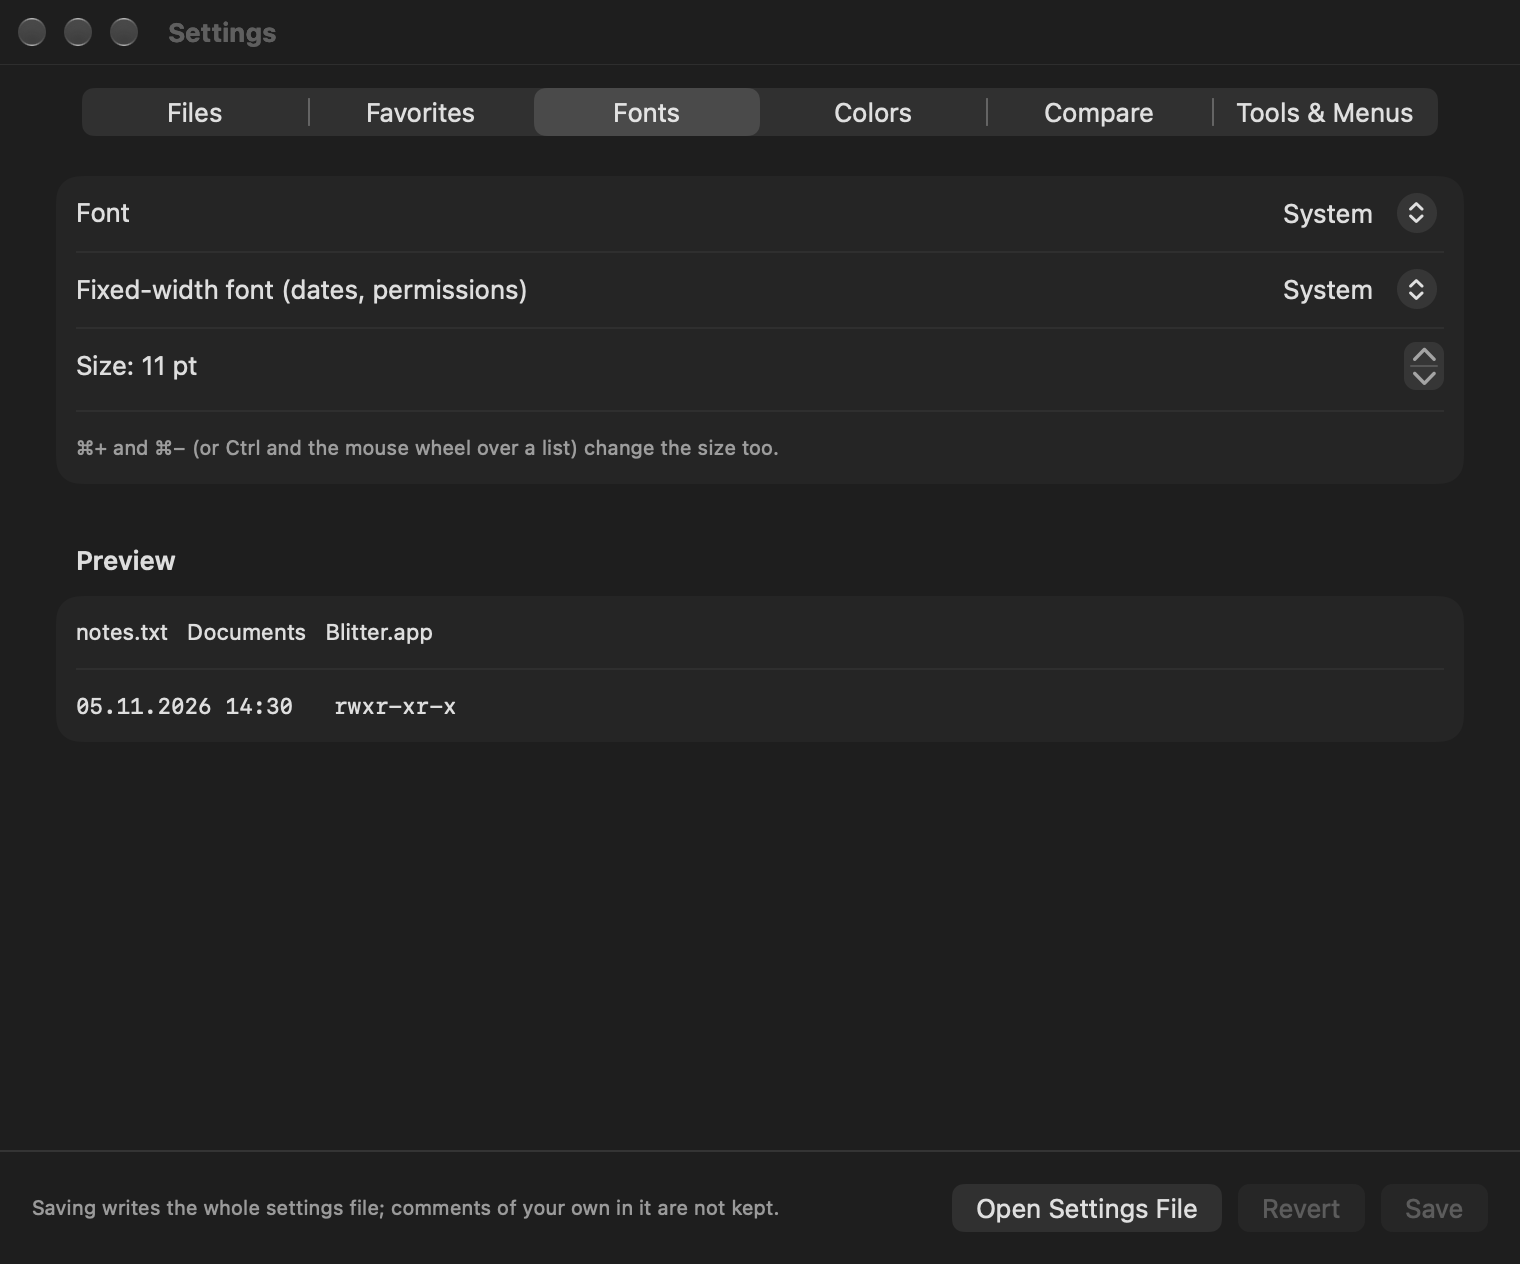
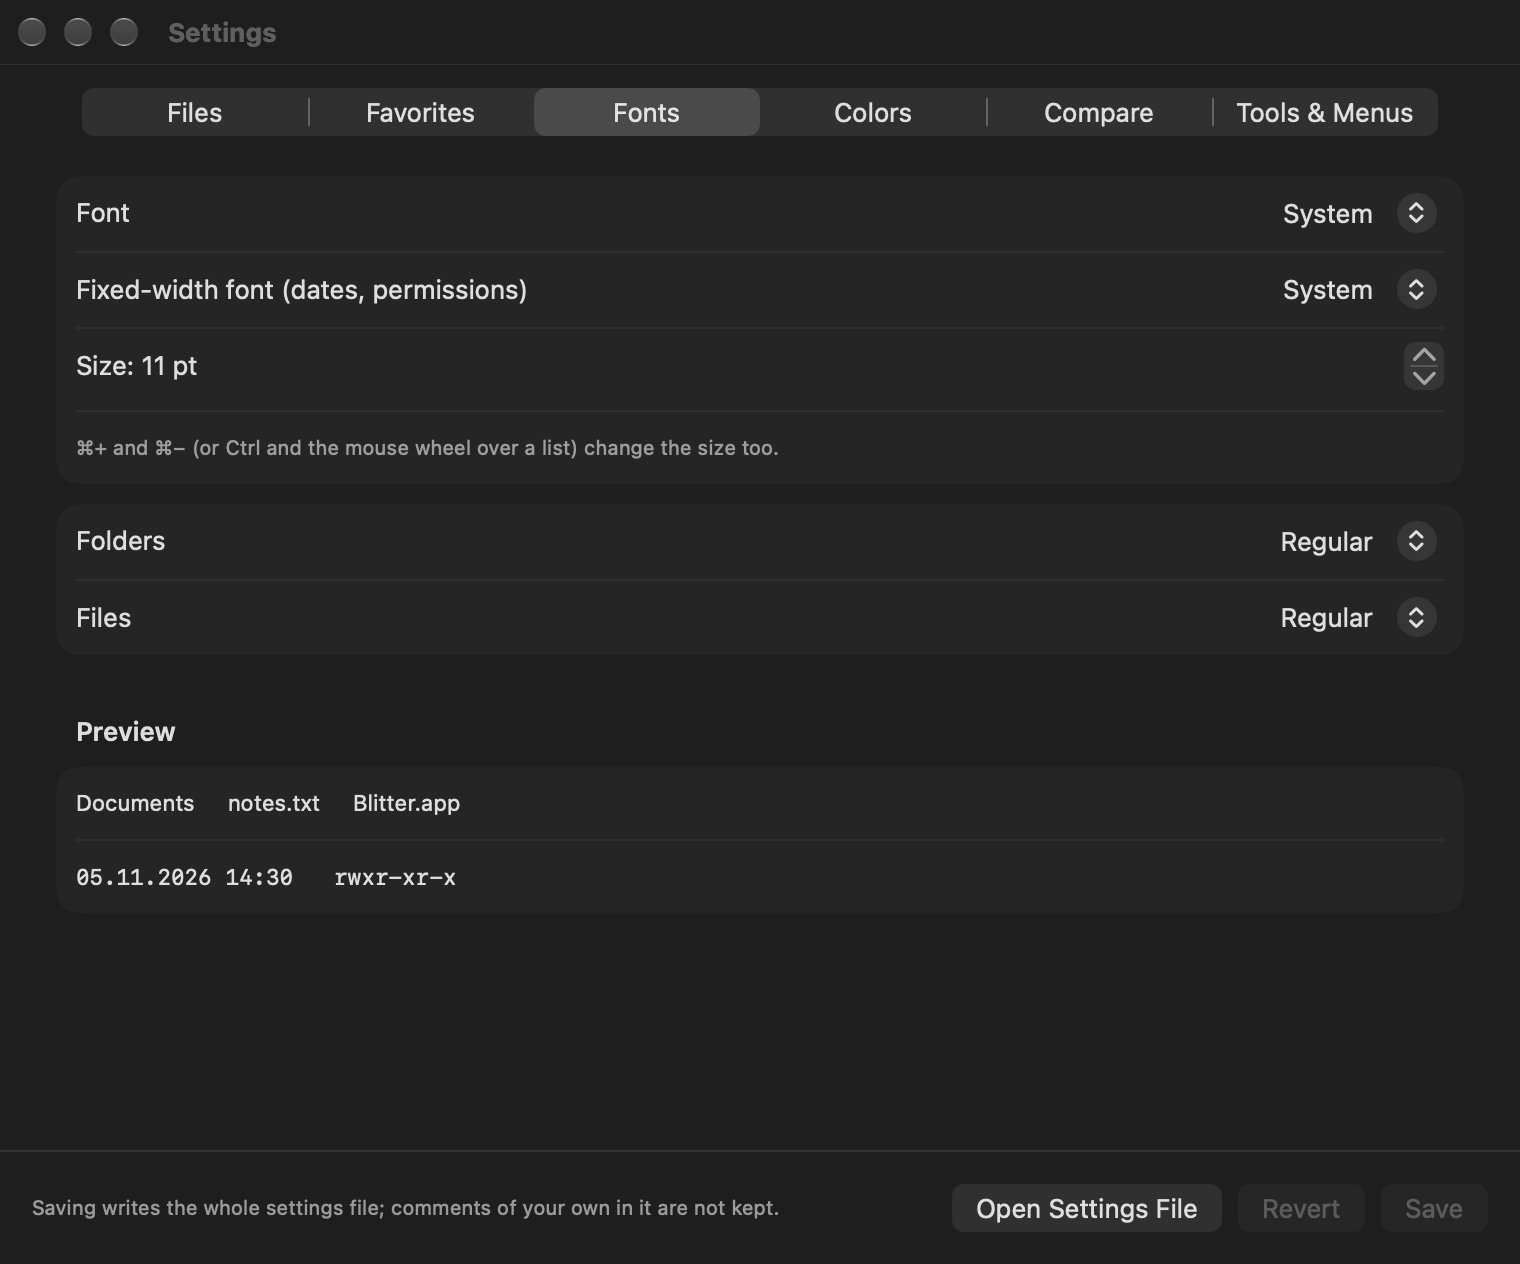
Font styles for folder and file names
[font] folder_style and file_style, each "regular", "bold", "italic" or
"bold italic", with Folders and Files pickers on the Fonts tab. The
folder style is used for folders in the file list and the folder tree;
packages count as files. A fast-filter match toggles bold, so it still
stands out in a bold style. Fonts are built once per settings change;
the per-row lookup is an index into them.

Fixes #77

diff --git a/Tests/BlitterAppTests/ListFontsTests.swift b/Tests/BlitterAppTests/ListFontsTests.swift
@@ -14,7 +14,7 @@ final class ListFontsTests {
     private let window: NSWindow
 
     init() async throws {
-        let entries = [file("notes.txt"), folder("docs")]
+        let entries = [file("notes.txt"), folder("docs"), folder("Tool.app")]
         workspace = Workspace(initialLocation: "/home", home: "/home", lister: { _ in entries },
                               directoryCheck: { _ in false }, volumes: { [] }, watcher: FakeWatcher.factory)
         workspace.settings.columns = [.name, .size, .modified, .permissions]
@@ -32,7 +32,7 @@ final class ListFontsTests {
             tree.render()
         }
         window.makeKeyAndOrderFront(nil)
-        for _ in 0 ..< 200 where workspace.state(of: .left).visibleEntries.count < 2 {
+        for _ in 0 ..< 200 where workspace.state(of: .left).visibleEntries.count < 3 {
             try await Task.sleep(for: .milliseconds(10))
         }
         workspace.onChange?()
@@ -98,6 +98,47 @@ final class ListFontsTests {
         let bold = try font("name", of: "notes.txt")
         #expect(bold.familyName == "Helvetica" && bold.fontDescriptor.symbolicTraits.contains(.bold))
         #expect(try !font("name", of: "docs").fontDescriptor.symbolicTraits.contains(.bold))
+    }
+
+    /// #77: folders, in the list and the tree, and files each in their style; an app is a file.
+    @Test func foldersAndFilesHaveTheirStyles() throws {
+        workspace.settings.font = FontSettings(face: "Helvetica", size: 12, folderStyle: .bold, fileStyle: .italic)
+        workspace.onChange?()
+        let folder = try font("name", of: "docs").fontDescriptor.symbolicTraits
+        #expect(folder.contains(.bold) && !folder.contains(.italic))
+        for name in ["notes.txt", "Tool.app"] {
+            let file = try font("name", of: name)
+            #expect(file.familyName == "Helvetica" && file.fontDescriptor.symbolicTraits.contains(.italic), "\(name)")
+            #expect(!file.fontDescriptor.symbolicTraits.contains(.bold), "\(name)")
+        }
+        #expect(try !font("size", of: "docs").fontDescriptor.symbolicTraits.contains(.bold))
+        let treeFonts = try (0 ..< tree.outlineView.numberOfRows).compactMap { row -> NSFont? in
+            guard tree.outlineView.parent(forItem: tree.outlineView.item(atRow: row)) != nil else {
+                return nil // a section header
+            }
+            return try #require((tree.outlineView.view(atColumn: 0, row: row, makeIfNecessary: true)
+                    as? NSTableCellView)?.textField?.font)
+        }
+        #expect(!treeFonts.isEmpty && treeFonts.allSatisfy { $0.fontDescriptor.symbolicTraits.contains(.bold) })
+    }
+
+    /// #77: a match in a bold style stands out by not being bold.
+    @Test func aFastFilterMatchInABoldStyleIsNotBold() async throws {
+        workspace.settings.font = FontSettings(folderStyle: .bold)
+        workspace.perform(.setQuickFilter(.left, QuickFilter("docs", mode: .highlight)))
+        try await waitUntil { self.workspace.state(of: .left).highlighted == ["docs"] }
+        workspace.onChange?()
+        #expect(try !font("name", of: "docs").fontDescriptor.symbolicTraits.contains(.bold))
+        // Italic stays italic either way; only bold is toggled.
+        let fonts = ListFonts.current(FontSettings(face: "Helvetica"))
+        #expect(fonts.name(.italic, emphasized: true).fontDescriptor.symbolicTraits.isSuperset(of: [.bold, .italic]))
+        let boldItalic = fonts.name(.boldItalic, emphasized: true).fontDescriptor.symbolicTraits
+        #expect(boldItalic.contains(.italic) && !boldItalic.contains(.bold))
+        // Each style's font is the one its index finds.
+        for style in FontStyle.allCases {
+            let traits = fonts.name(style).fontDescriptor.symbolicTraits
+            #expect(traits.contains(.bold) == style.isBold && traits.contains(.italic) == style.isItalic, "\(style)")
+        }
     }
 
     /// #63: Ctrl+wheel over the list or the tree zooms; without Ctrl the wheel scrolls.

diff --git a/Sources/BlitterApp/ListFonts.swift b/Sources/BlitterApp/ListFonts.swift
@@ -6,10 +6,10 @@ import BlitterModel
 @MainActor
 struct ListFonts {
     let settings: FontSettings
-    /// Names, folders, and the columns without their own font.
+    /// The columns without their own font; names are drawn in `name(_:emphasized:)`.
     let text: NSFont
-    /// A fast-filter match (#39).
-    let bold: NSFont
+    /// The text font in each style, in `FontStyle.allCases` order (#77).
+    private let styled: [NSFont]
     /// The tree's section headers.
     let section: NSFont
     /// Sizes: the text font with digits of equal width, so they line up from row to row.
@@ -37,19 +37,41 @@ struct ListFonts {
         let manager = NSFontManager.shared
         if let face = settings.face, let font = manager.font(withFamily: face, traits: [], weight: 5, size: size) {
             text = font
-            bold = manager.convert(font, toHaveTrait: .boldFontMask)
-            section = bold
+            section = Self.font(font, in: .bold)
             tabular = Self.withTabularDigits(font)
         } else {
             text = .systemFont(ofSize: size)
-            bold = .boldSystemFont(ofSize: size)
             section = .systemFont(ofSize: size, weight: .semibold)
             tabular = .monospacedDigitSystemFont(ofSize: size, weight: .regular)
         }
         mono = settings.mono.flatMap { manager.font(withFamily: $0, traits: [], weight: 5, size: size) }
             ?? .monospacedSystemFont(ofSize: size, weight: .regular)
-        let lineHeight = max(Self.lineHeight(text), Self.lineHeight(mono))
+        let styled = FontStyle.allCases.map { [text] style in Self.font(text, in: style) }
+        self.styled = styled
+        let names = [settings.folderStyle, settings.fileStyle].map { styled[$0.index] }
+        let lineHeight = ([text, mono] + names).map(Self.lineHeight).max() ?? 0
         rowHeight = max(lineHeight + Self.rowPadding, Self.iconSize)
+    }
+
+    /// A folder's or file's name in its style. A fast-filter match (#39) is emphasized: bold, or,
+    /// where the style is bold already, not bold — so it stands out from its neighbors either way.
+    func name(_ style: FontStyle, emphasized: Bool = false) -> NSFont {
+        styled[(emphasized ? FontStyle(bold: !style.isBold, italic: style.isItalic) : style).index]
+    }
+
+    /// The face in a style; a face without that style keeps its regular.
+    private static func font(_ font: NSFont, in style: FontStyle) -> NSFont {
+        var traits: NSFontDescriptor.SymbolicTraits = []
+        if style.isBold {
+            traits.insert(.bold)
+        }
+        if style.isItalic {
+            traits.insert(.italic)
+        }
+        guard !traits.isEmpty else {
+            return font
+        }
+        return NSFont(descriptor: font.fontDescriptor.withSymbolicTraits(traits), size: font.pointSize) ?? font
     }
 
     private static func lineHeight(_ font: NSFont) -> CGFloat {
@@ -75,5 +97,17 @@ struct ListFonts {
         ]
         let descriptor = font.fontDescriptor.addingAttributes([.featureSettings: [feature]])
         return NSFont(descriptor: descriptor, size: font.pointSize) ?? font
+    }
+}
+
+private extension FontStyle {
+    /// The place in `allCases`, without building `allCases`: it is asked for every row.
+    var index: Int {
+        switch self {
+        case .regular: 0
+        case .bold: 1
+        case .italic: 2
+        case .boldItalic: 3
+        }
     }
 }

diff --git a/Sources/BlitterModel/Fonts.swift b/Sources/BlitterModel/Fonts.swift
@@ -2,9 +2,29 @@ import CoreText
 import Foundation
 import TOMLKit
 
+/// How a name is drawn (#77): the face's regular, bold, italic or bold italic.
+public enum FontStyle: String, CaseIterable, Sendable {
+    case regular
+    case bold
+    case italic
+    case boldItalic = "bold italic"
+
+    public var isBold: Bool {
+        self == .bold || self == .boldItalic
+    }
+
+    public var isItalic: Bool {
+        self == .italic || self == .boldItalic
+    }
+
+    public init(bold: Bool, italic: Bool) {
+        self = bold ? (italic ? .boldItalic : .bold) : (italic ? .italic : .regular)
+    }
+}
+
 /// The fonts of the file lists and folder trees (#62): one face for the text, one fixed-width
 /// face for the columns that must line up (dates, permissions), and one size for both. Dialogs
-/// keep the system font.
+/// keep the system font. Folder and file names each have a style of the face (#77).
 public struct FontSettings: Equatable, Sendable {
     /// A font family's name; nil is the system font.
     public var face: String?
@@ -12,14 +32,22 @@ public struct FontSettings: Equatable, Sendable {
     public var mono: String?
     /// In points; the default is the size of AppKit's small rows.
     public var size = 11.0
+    /// Folder names, in the lists and the trees.
+    public var folderStyle = FontStyle.regular
+    /// The names of everything else in the lists.
+    public var fileStyle = FontStyle.regular
 
     public static let sizes = 8.0 ... 32.0
-    static let keys: Set = ["face", "mono", "size"]
+    static let keys: Set = ["face", "mono", "size", "folder_style", "file_style"]
 
-    public init(face: String? = nil, mono: String? = nil, size: Double = 11) {
+    public init(face: String? = nil, mono: String? = nil, size: Double = 11,
+                folderStyle: FontStyle = .regular, fileStyle: FontStyle = .regular)
+    {
         self.face = face
         self.mono = mono
         self.size = size
+        self.folderStyle = folderStyle
+        self.fileStyle = fileStyle
     }
 
     /// Applies one of `keys`, or explains why it can't; whatever is invalid keeps its default.
@@ -52,6 +80,17 @@ public struct FontSettings: Equatable, Sendable {
                 return "expected a size in points from \(Int(Self.sizes.lowerBound)) to \(Int(Self.sizes.upperBound))."
             }
             size = points
+            return nil
+        case "folder_style", "file_style":
+            guard let name = value.string, let style = FontStyle(rawValue: name) else {
+                let names = FontStyle.allCases.map { "\"\($0.rawValue)\"" }
+                return "expected one of " + names.joined(separator: ", ") + "."
+            }
+            if key == "folder_style" {
+                folderStyle = style
+            } else {
+                fileStyle = style
+            }
             return nil
         default:
             preconditionFailure("not one of FontSettings.keys: \(key)")

diff --git a/Sources/BlitterApp/SettingsTabs.swift b/Sources/BlitterApp/SettingsTabs.swift
@@ -57,13 +57,27 @@ struct FontSettingsView: View {
             }
             Text("⌘+ and ⌘− (or Ctrl and the mouse wheel over a list) change the size too.")
                 .font(.caption).foregroundStyle(.secondary)
+            Section {
+                stylePicker("Folders", \.folderStyle)
+                stylePicker("Files", \.fileStyle)
+            }
             let fonts = ListFonts.current(font)
             Section("Preview") {
-                Text("notes.txt   Documents   Blitter.app").font(Font(fonts.text))
+                HStack(spacing: 16) {
+                    Text("Documents").font(Font(fonts.name(font.folderStyle)))
+                    Text("notes.txt").font(Font(fonts.name(font.fileStyle)))
+                    Text("Blitter.app").font(Font(fonts.name(font.fileStyle)))
+                }
                 Text("05.11.2026 14:30   rwxr-xr-x").font(Font(fonts.mono))
             }
         }
         .formStyle(.grouped)
+    }
+
+    private func stylePicker(_ title: String, _ entry: WritableKeyPath<FontSettings, FontStyle>) -> some View {
+        Picker(title, selection: $font[dynamicMember: entry]) {
+            ForEach(FontStyle.allCases, id: \.self) { Text($0.rawValue.capitalized).tag($0) }
+        }
     }
 
     /// "system" in the picker is nil in the settings.

diff --git a/Sources/BlitterApp/FileListViewController+Fonts.swift b/Sources/BlitterApp/FileListViewController+Fonts.swift
@@ -1,4 +1,5 @@
 import AppKit
+import BlitterModel
 
 /// The list's fonts (#62): the settings' face and size, fixed-width where columns line up.
 extension FileListViewController {
@@ -15,11 +16,14 @@ extension FileListViewController {
         tableView.reloadData()
     }
 
-    /// A reused cell keeps its font until the fonts change: the fonts are shared objects, so the
-    /// identity check is all a row costs.
-    func applyFont(to cell: NSTableCellView, column: NSUserInterfaceItemIdentifier, name: String) {
+    /// Names in the folder or file style (#77), a packaged app being a file. A reused cell keeps
+    /// its font until the fonts change: the fonts are shared objects, so the identity check is
+    /// all a row costs.
+    func applyFont(to cell: NSTableCellView, column: NSUserInterfaceItemIdentifier, entry listed: ListedEntry) {
         let font = switch column {
-        case Self.nameColumn: isHighlighted(name) ? fonts.bold : fonts.text
+        case Self.nameColumn:
+            fonts.name(listed.isFolder ? fonts.settings.folderStyle : fonts.settings.fileStyle,
+                       emphasized: isHighlighted(listed.entry.name))
         case Self.sizeColumn: fonts.tabular
         case Self.modifiedColumn, Self.permissionsColumn: fonts.mono
         default: fonts.text

diff --git a/Tests/BlitterModelTests/SettingsTests.swift b/Tests/BlitterModelTests/SettingsTests.swift
@@ -120,6 +120,19 @@ struct SettingsParsingTests {
         #expect(problems.contains("Unknown setting “font.weight”."))
         #expect(Settings.parse("[font]\nsize = \"11\"\n").problems.count == 1)
     }
+
+    /// #77: folder and file names each have a style; a wrong one is reported and stays regular.
+    @Test func folderAndFileStyles() {
+        let (settings, problems) = Settings.parse("[font]\nfolder_style = \"bold\"\nfile_style = \"bold italic\"\n")
+        #expect(problems.isEmpty)
+        #expect(settings.font == FontSettings(folderStyle: .bold, fileStyle: .boldItalic))
+        #expect(Settings.parse(Settings.fileText(settings)).settings.font == settings.font)
+        let bad = Settings.parse("[font]\nfolder_style = \"heavy\"\nfile_style = 1\n")
+        #expect(bad.settings.font == FontSettings())
+        #expect(bad.problems.count == 2)
+        #expect(bad.problems.allSatisfy { $0.contains("\"bold italic\"") })
+        #expect(Settings.defaultFile.contains("folder_style = \"regular\"\nfile_style = \"regular\""))
+    }
 }
 
 /// The settings file as the workspace uses it: read at launch, re-read on changes, problems as

diff --git a/Sources/BlitterModel/Settings+File.swift b/Sources/BlitterModel/Settings+File.swift
@@ -59,10 +59,14 @@ public extension Settings {
         # The fonts of the file lists and folder trees; dialogs keep the system font. "system" is
         # macOS's own font; or a font family's name, e.g. face = "Helvetica Neue", mono = "Menlo".
         # mono is the fixed-width font of the date and permissions columns. size is in points (8 to 32).
+        # folder_style (folders in the lists and trees) and file_style (all other names) are each
+        # "regular", "bold", "italic" or "bold italic".
         [font]
         face = \(quoted(settings.font.face ?? "system"))
         mono = \(quoted(settings.font.mono ?? "system"))
         size = \(number(settings.font.size))
+        folder_style = \(quoted(settings.font.folderStyle.rawValue))
+        file_style = \(quoted(settings.font.fileStyle.rawValue))
         """
     }
 

diff --git a/Tests/BlitterModelTests/SettingsWindowTests.swift b/Tests/BlitterModelTests/SettingsWindowTests.swift
@@ -79,12 +79,14 @@ struct SettingsFileTextTests {
         let original = Settings()
         var edited = original
         edited.font.face = "Helvetica"
+        edited.font.folderStyle = .bold
         edited.confirmDelete = false
         var current = Settings()
         current.font.size = 15 // zoomed meanwhile
+        current.font.fileStyle = .italic // an editor meanwhile
         current.dateFormat = "HH:mm" // an editor meanwhile
         let merged = current.applying(changesFrom: original, to: edited)
-        #expect(merged.font == FontSettings(face: "Helvetica", size: 15))
+        #expect(merged.font == FontSettings(face: "Helvetica", size: 15, folderStyle: .bold, fileStyle: .italic))
         #expect(merged.dateFormat == "HH:mm" && !merged.confirmDelete)
     }
 

diff --git a/Sources/BlitterApp/FolderTreeViewController.swift b/Sources/BlitterApp/FolderTreeViewController.swift
@@ -251,7 +251,7 @@ final class FolderTreeViewController: NSViewController, NSOutlineViewDataSource,
             ?? Self.makeCell(identifier: identifier, withImage: !isSection)
         cell.textField?.stringValue = item.title
         cell.textField?.textColor = textColor(isSection: isSection, isHidden: item.isHidden, folder: item.node?.path)
-        let font = isSection ? fonts.section : fonts.text
+        let font = isSection ? fonts.section : fonts.name(fonts.settings.folderStyle)
         if cell.textField?.font !== font {
             cell.textField?.font = font
         }

diff --git a/Sources/BlitterApp/FileListViewController.swift b/Sources/BlitterApp/FileListViewController.swift
@@ -326,7 +326,7 @@ extension FileListViewController {
         let listed = entries[row]
         let cell = tableView.makeView(withIdentifier: column.identifier, owner: nil) as? NSTableCellView
             ?? Self.makeCell(identifier: column.identifier)
-        applyFont(to: cell, column: column.identifier, name: listed.entry.name)
+        applyFont(to: cell, column: column.identifier, entry: listed)
         switch column.identifier {
         case Self.nameColumn:
             cell.textField?.stringValue = listed.entry.name

diff --git a/Sources/BlitterModel/Sorting.swift b/Sources/BlitterModel/Sorting.swift
@@ -27,6 +27,12 @@ public struct ListedEntry: Sendable {
     public let entry: DirectoryEntry
     public let contentType: UTType
     public let kindDescription: String
+
+    /// A folder Blitter goes into: a directory, but not a package (an app, a bundle), which is
+    /// shown and opened as a file.
+    public var isFolder: Bool {
+        entry.kind == .directory && !contentType.conforms(to: .package)
+    }
 }
 
 enum Listing {

diff --git a/Sources/BlitterModel/Workspace+SettingsWindow.swift b/Sources/BlitterModel/Workspace+SettingsWindow.swift
@@ -41,6 +41,8 @@ public extension Settings {
         take(\.font.face)
         take(\.font.mono)
         take(\.font.size)
+        take(\.font.folderStyle)
+        take(\.font.fileStyle)
         take(\.favorites)
         take(\.theme.light)
         take(\.theme.dark)
